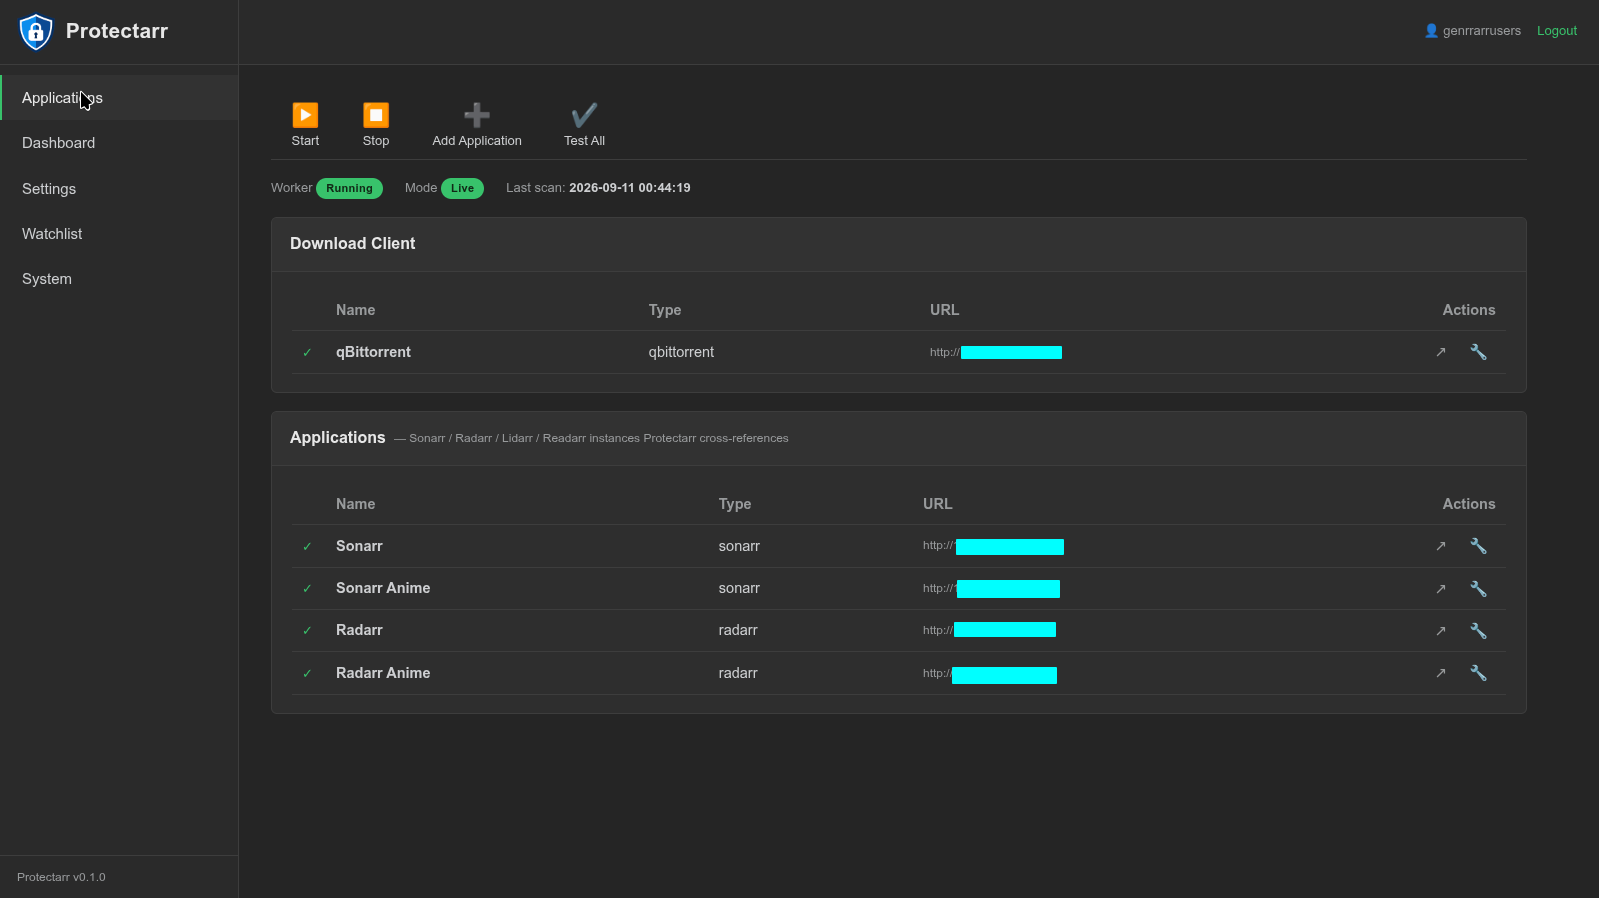
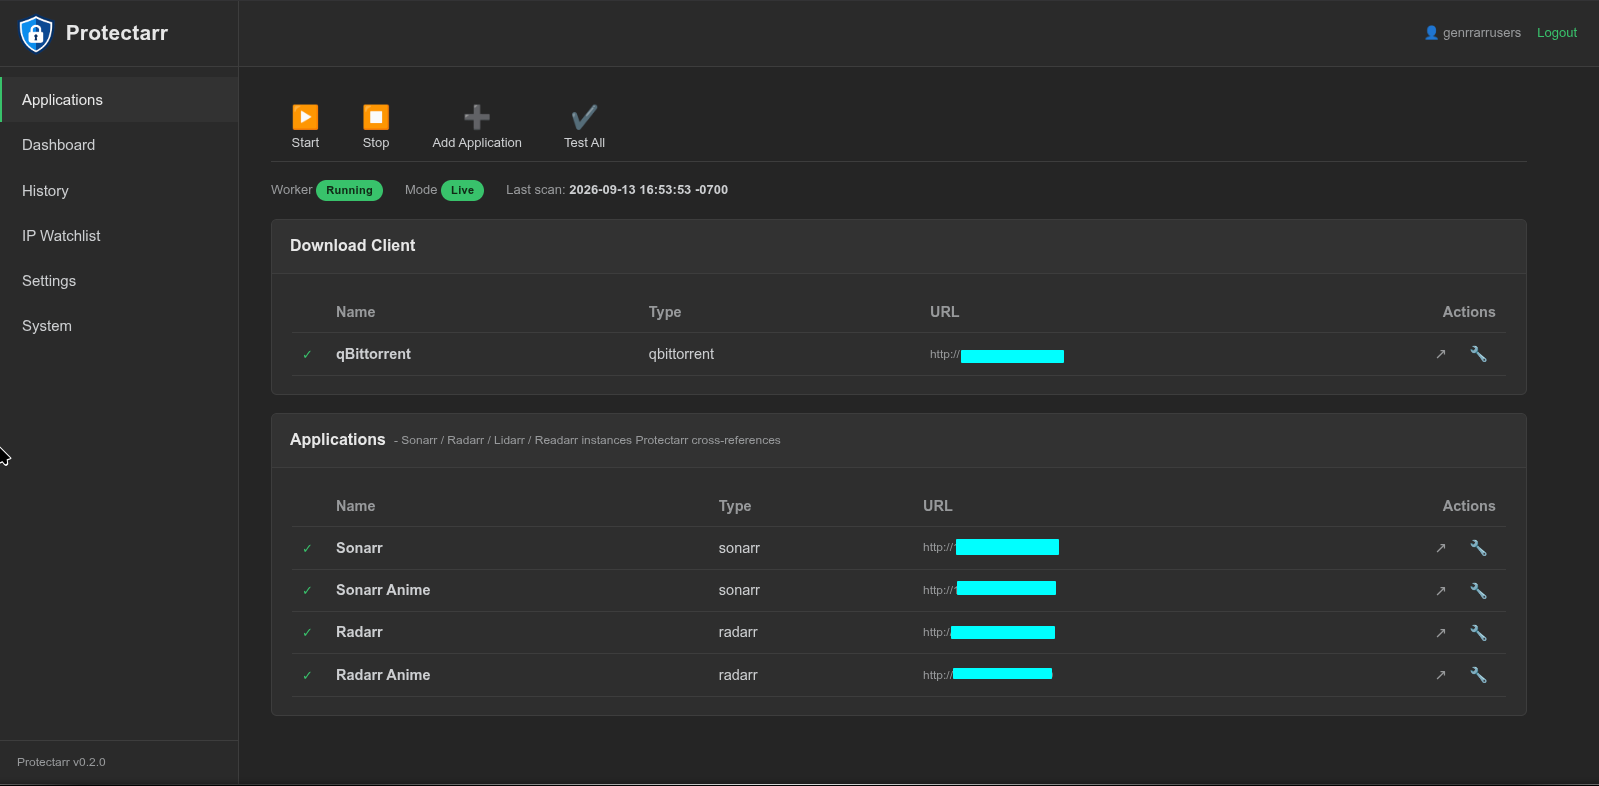
Refresh the screenshots and show the pages that were missing
Three of these were stale and four pages had never been shown at all, which
left the README describing features nobody could see: History, the reaping
mode picker, the IP watchlist and System.

History is the one worth adding. It is where "blocklist confirmed (row 16)"
and "held - not out yet (airs 2026-09-13)" are visible, and those two lines
are most of what separates Protectarr from a script that deletes things. The
caption says plainly that a held item is correct behaviour rather than a
failure, because it reads like an error otherwise.

The four new pages go in a collapsed block so the top of the README stays
about what the tool does rather than turning into a gallery.

All seven now show v0.2.0.

diff --git a/README.md b/README.md
@@ -36,18 +36,58 @@ fakes are coming from.
   <img src="screenshots/dashboard.png" alt="Protectarr dashboard" width="820">
 </p>
 
+History is the detail behind every reap: which release it was, which app owned
+it, whether the blocklist entry actually stuck, and **why** a replacement was or
+wasn't searched for. `held - not out yet` is Protectarr working correctly, not
+failing: nothing legitimate can exist before the air date, so searching again
+would only find another fake.
+
+<p align="center">
+  <img src="screenshots/history.png" alt="Protectarr history page showing reaped releases, confirmed blocklist entries and held replacements" width="820">
+</p>
+
 Applications: qBittorrent and each *arr, with a Test button per connection.
 
 <p align="center">
   <img src="screenshots/applications.png" alt="Protectarr applications page" width="820">
 </p>
 
-Monitored Extensions: the extensions that flag a download, plus the lure-filename
-and archive rules.
+<details>
+<summary><b>More screenshots</b> - reaping rules, detection settings, the IP watchlist, and System</summary>
+
+<br>
+
+Reaping Rules: which torrents Protectarr may touch. The mode picker is the
+important control here, and `either` is the one that catches orphans - releases
+an application gave up on that keep downloading in qBittorrent anyway.
+
+<p align="center">
+  <img src="screenshots/reapingrules.png" alt="Protectarr reaping rules, showing the safety mode picker and category allowlist" width="820">
+</p>
+
+Monitored Extensions: the extensions that flag a download, plus the
+lure-filename and archive rules.
 
 <p align="center">
   <img src="screenshots/extensions.png" alt="Protectarr monitored extensions settings" width="820">
 </p>
+
+IP Watchlist: every peer seen sharing a confirmed fake, recorded from the swarm
+**before** the torrent is removed. Passive observation only - nothing here is
+blocked automatically. What to look for is an IP, or a subnet, appearing across
+many *distinct* fakes while seeding.
+
+<p align="center">
+  <img src="screenshots/iplist.png" alt="Protectarr IP watchlist of peers seen seeding confirmed fakes" width="820">
+</p>
+
+System: version, worker state, and a live view of the activity log.
+
+<p align="center">
+  <img src="screenshots/system.png" alt="Protectarr system page showing version, worker status and recent activity log" width="820">
+</p>
+
+</details>
 
 ## What happens when a fake is caught
 
